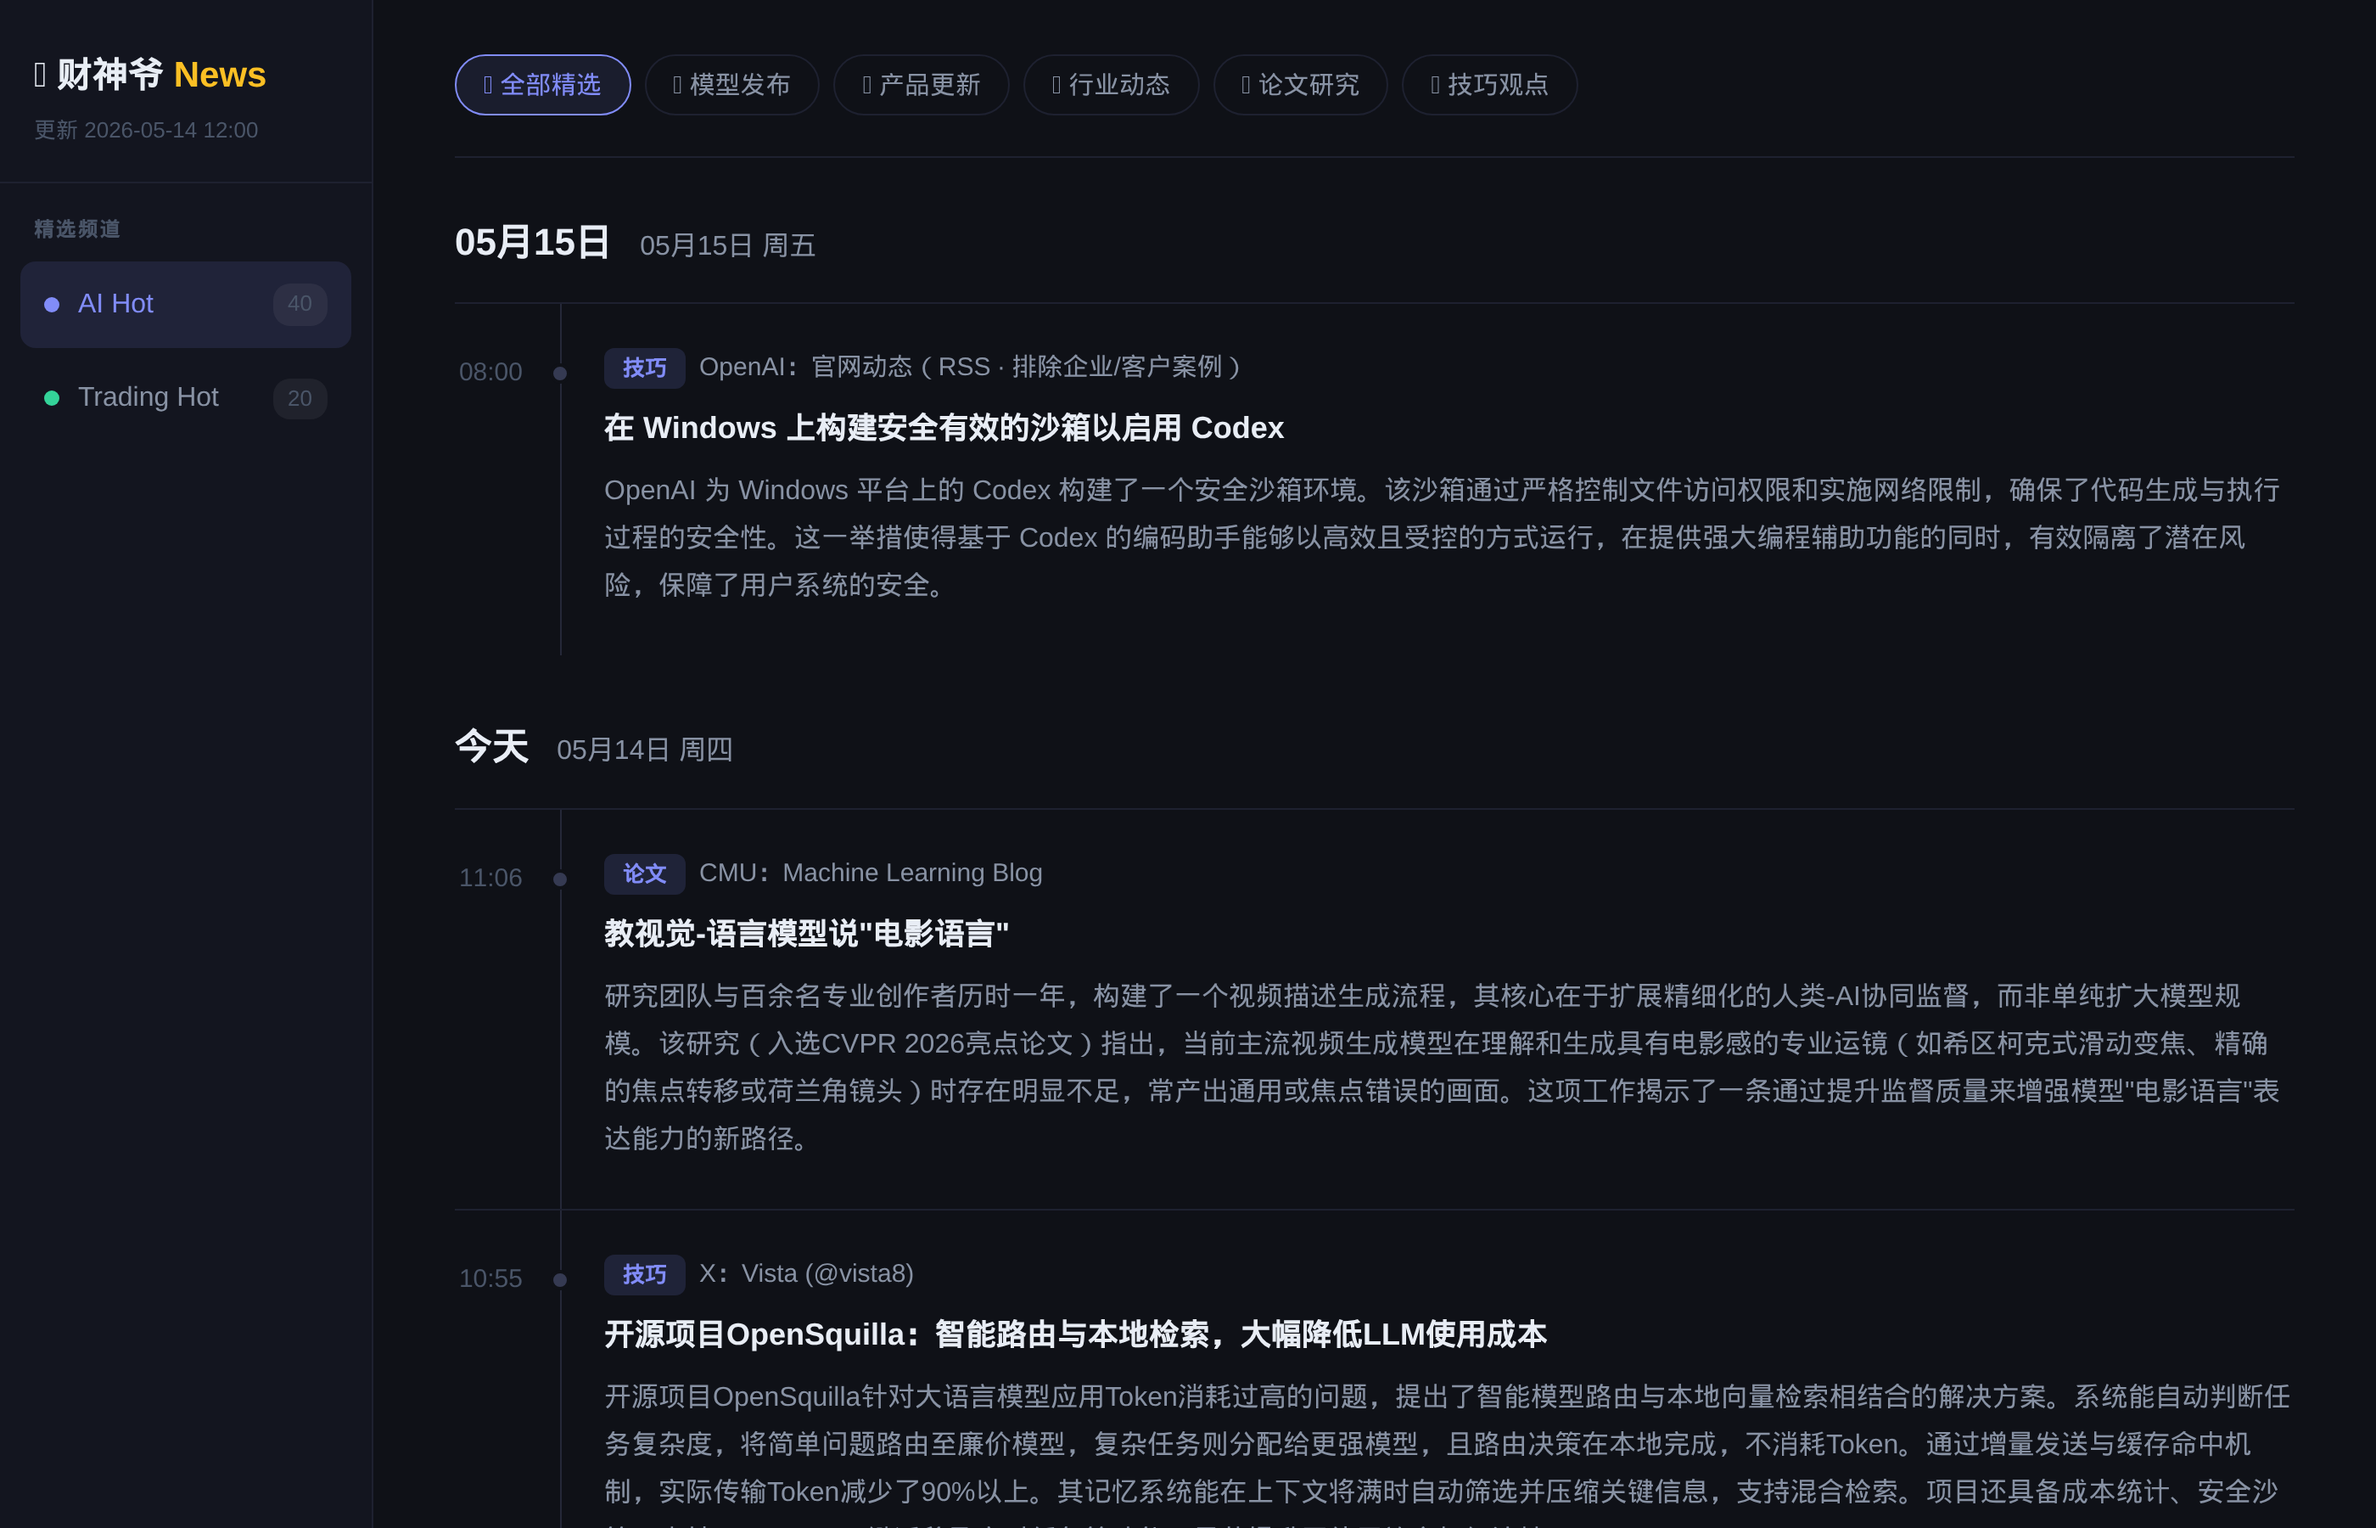
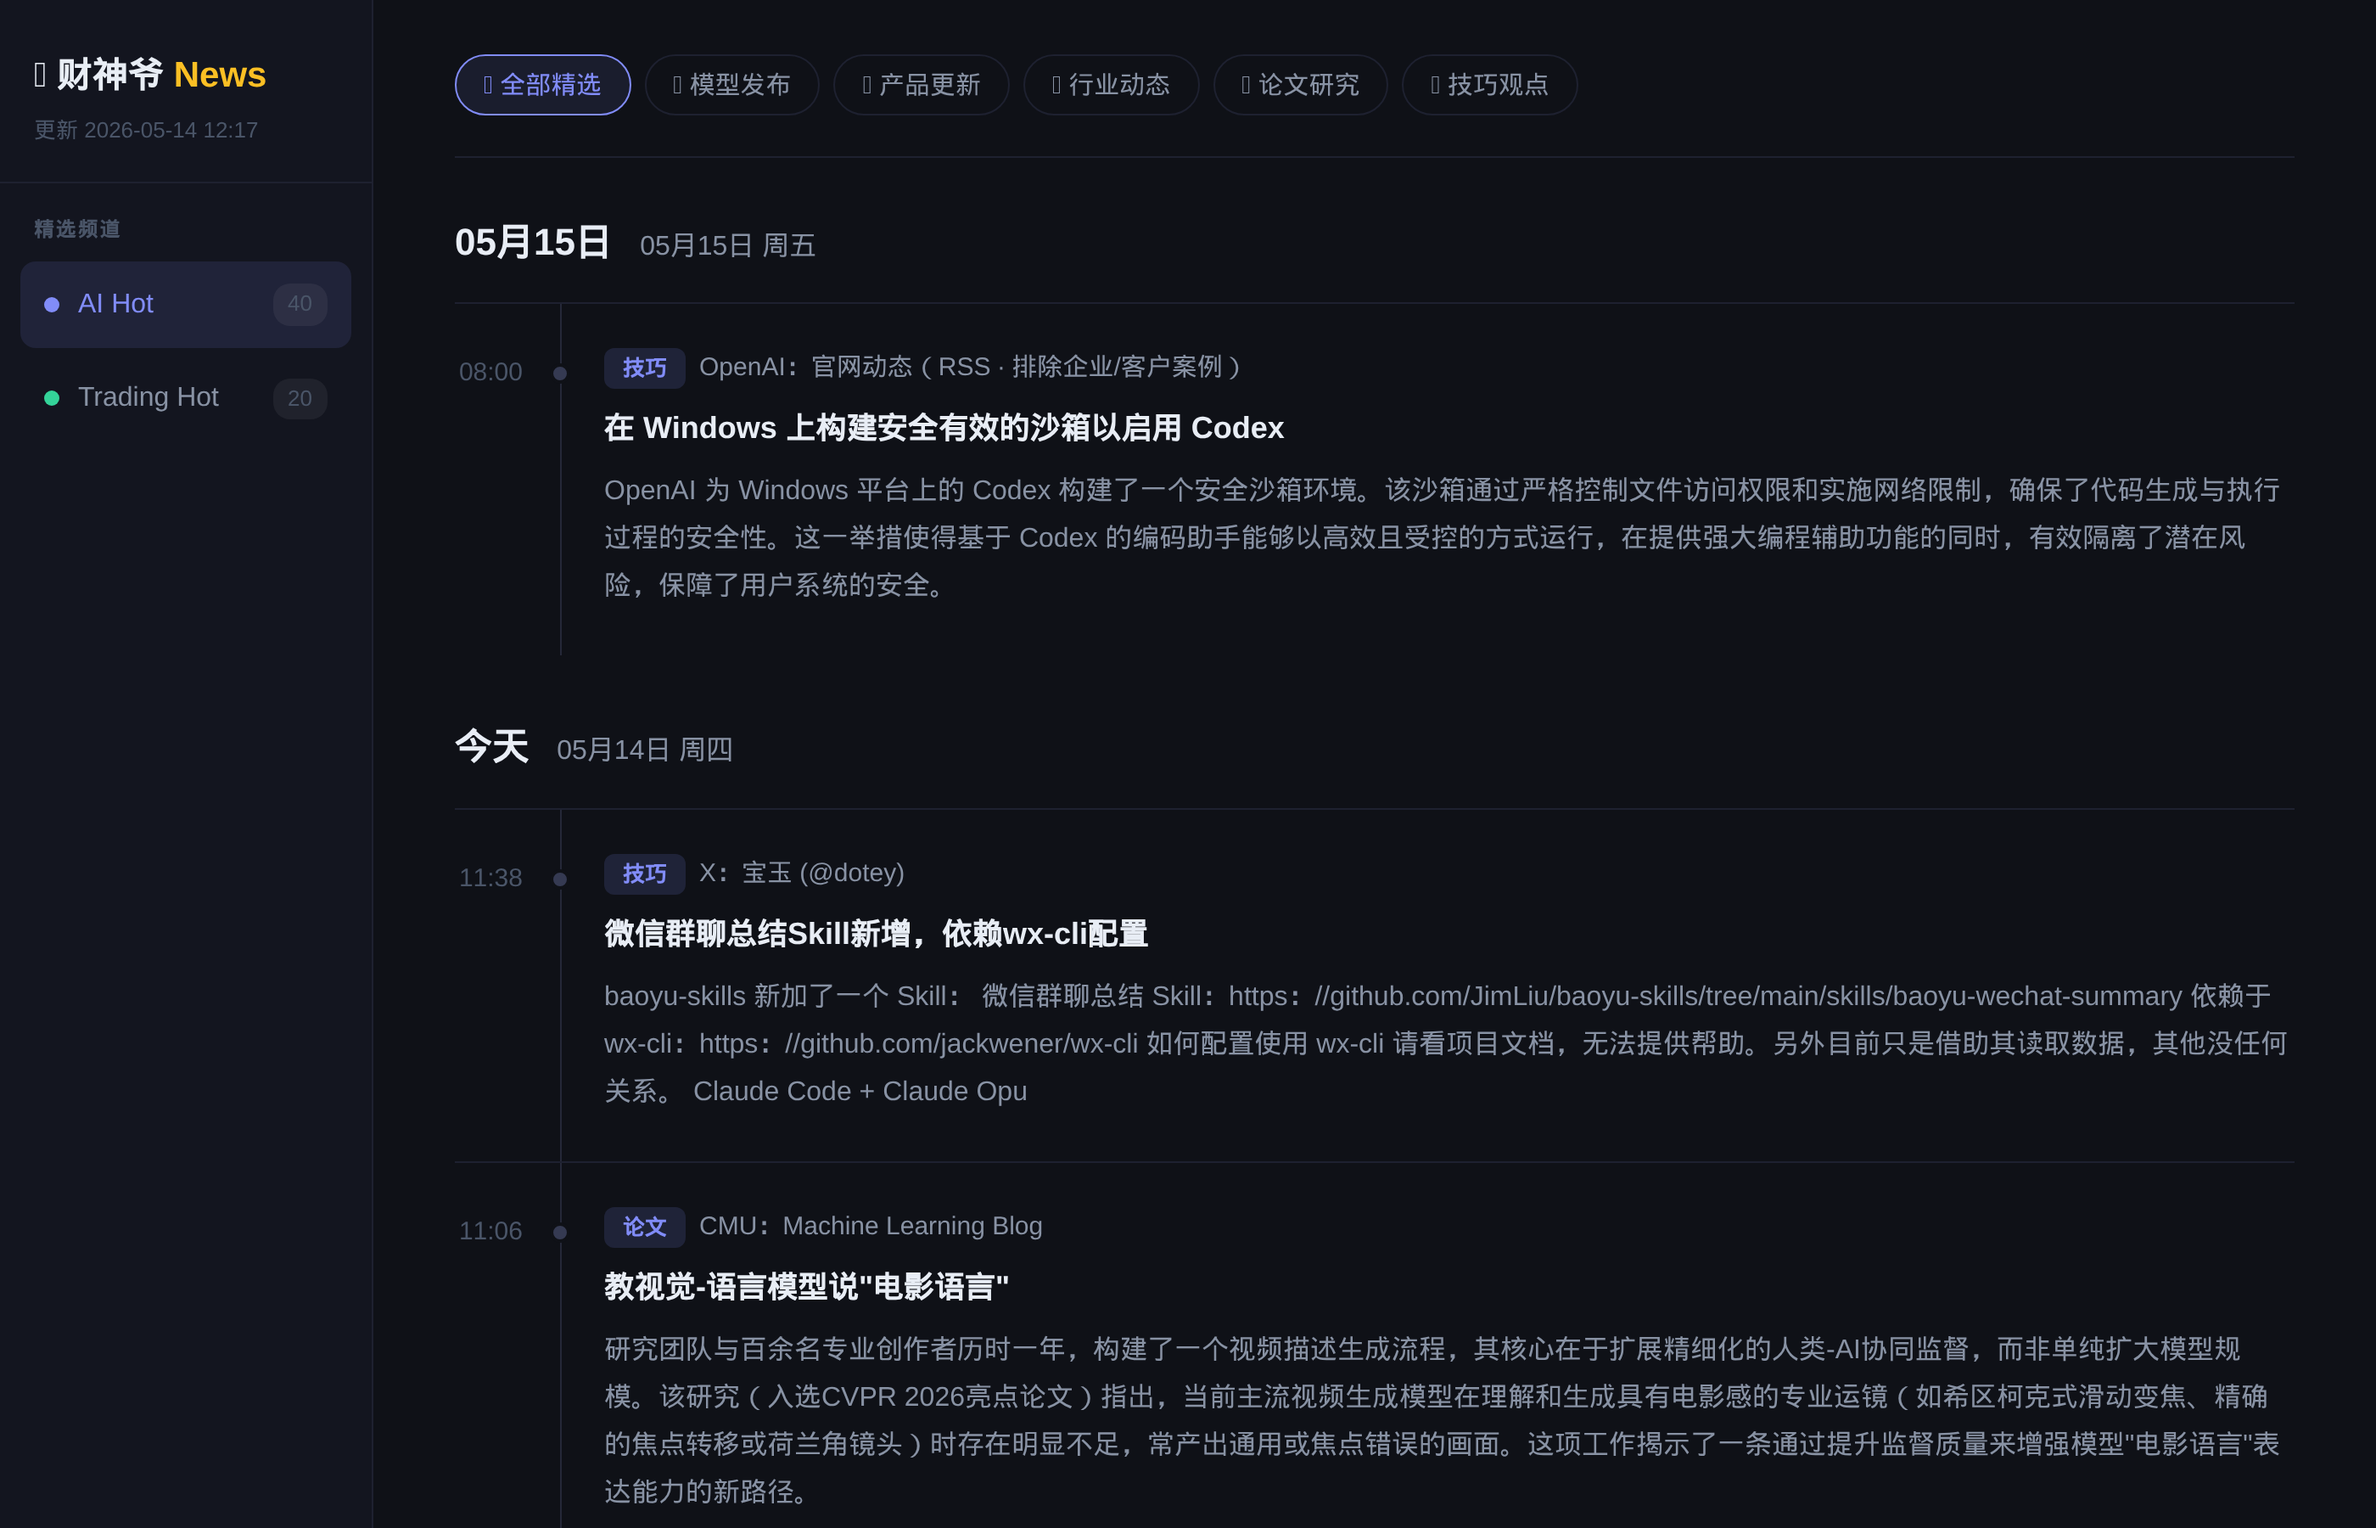
auto update 2026-05-14 12:17

Changed region(s): [[0.2486, 0.56, 0.9632, 0.9956]]

diff --git a/index.html b/index.html
@@ -106,7 +106,7 @@ body{font-family:-apple-system,BlinkMacSystemFont,"Segoe UI","PingFang SC","Micr
 <body>
 <aside class="sb">
   <div class="sb-logo">💰 财神爷 <span>News</span>
-    <div class="sb-up">更新 2026-05-14 12:00</div>
+    <div class="sb-up">更新 2026-05-14 12:17</div>
   </div>
   <nav class="sb-nav">
     <div class="nav-lbl">精选频道</div>
@@ -137,6 +137,21 @@ body{font-family:-apple-system,BlinkMacSystemFont,"Segoe UI","PingFang SC","Micr
     <div class="dgroup">
       <div class="dheader">今天 <span class='dsub'>05月14日 周四</span></div>
       <div class="ilist">
+      <div class="item" data-cats="tip">
+        <div class="item-time">11:38</div>
+        <div class="item-body">
+          <div class="item-meta"><span class="badge badge-ai">技巧</span><span class="isrc">X：宝玉 (@dotey)</span></div>
+          <a class="item-title" href="https://x.com/dotey/status/2054768295534846239" target="_blank" rel="noopener">微信群聊总结Skill新增，依赖wx-cli配置</a>
+          <div class="item-summary">baoyu-skills 新加了一个 Skill：
+微信群聊总结 Skill：https：//github.com/JimLiu/baoyu-skills/tree/main/skills/baoyu-wechat-summary
+
+依赖于 wx-cli：https：//github.com/jackwener/wx-cli
+如何配置使用 wx-cli 请看项目文档，无法提供帮助。另外目前只是借助其读取数据，其他没任何关系。
+
+Claude Code + Claude Opu</div>
+        </div>
+      </div>
+
       <div class="item" data-cats="paper">
         <div class="item-time">11:06</div>
         <div class="item-body">
@@ -537,15 +552,6 @@ https：//suno.com/playlist/a255cf6d-bb99-4c1f-aedd-8d584579bddb</div>
           <div class="item-summary">Codex应用内浏览器功能迎来多项改进，支持在不同视口尺寸下测试应用，并能控制设备工具栏、在不同断点进行点击验证。长时测试中，Codex会在关键节点截图供用户核查。为加速测试，可隐藏应用内浏览器以禁用动画，使测试速度提升1-2倍。此外，标注功能现在发送更快且消耗更少tokens。</div>
         </div>
       </div>
-
-      <div class="item" data-cats="tip">
-        <div class="item-time">10:38</div>
-        <div class="item-body">
-          <div class="item-meta"><span class="badge badge-ai">技巧</span><span class="isrc">X：Berry Xia (@berryxia)</span></div>
-          <a class="item-title" href="https://x.com/berryxia/status/2054390836721553487" target="_blank" rel="noopener">BenchLoop：本地大模型一键基准测试与排行榜发布</a>
-          <div class="item-summary">BenchLoop 提供了一套对本地大模型进行基准测试的标准化流程。用户只需拉取模型并运行该工具，即可实时获取模型在质量、速度和可靠性方面的综合评分。平台支持对比不同提示框架（如原生模式与 Hermes 模式）下的性能表现。测试完成后，结果可自动发布至公开排行榜，便于横向比较不同模型的优劣。</div>
-        </div>
-      </div>
       </div>
     </div>
   </div>
@@ -554,7 +560,7 @@ https：//suno.com/playlist/a255cf6d-bb99-4c1f-aedd-8d584579bddb</div>
         <div class="dgroup">
       <div class="dheader">昨天 <span class='dsub'>05月13日 周三</span></div>
       <div class="ilist">
-      <div class="item" data-cats="top crypto">
+      <div class="item" data-cats="crypto top">
         <div class="item-time">04:56</div>
         <div class="item-body">
           <div class="item-meta"><span class="badge badge-trading">加密</span><span class="score-badge">72分</span><span class="isrc">The Block</span><span class="ticker">$C</span><span class="ticker">$COIN</span></div>
@@ -574,7 +580,7 @@ https：//suno.com/playlist/a255cf6d-bb99-4c1f-aedd-8d584579bddb</div>
         </div>
       </div>
 
-      <div class="item" data-cats="top ai_tech crypto">
+      <div class="item" data-cats="crypto ai_tech top">
         <div class="item-time">04:46</div>
         <div class="item-body">
           <div class="item-meta"><span class="badge badge-trading">加密</span><span class="score-badge">68分</span><span class="isrc">Decrypt</span><span class="ticker">$F</span></div>
@@ -594,7 +600,7 @@ https：//suno.com/playlist/a255cf6d-bb99-4c1f-aedd-8d584579bddb</div>
         </div>
       </div>
 
-      <div class="item" data-cats="top ai_tech">
+      <div class="item" data-cats="ai_tech top">
         <div class="item-time">04:36</div>
         <div class="item-body">
           <div class="item-meta"><span class="badge badge-trading">市场异动</span><span class="score-badge">67分</span><span class="isrc">MarketWatch Top Stories</span><span class="ticker">$V</span></div>
@@ -614,7 +620,7 @@ https：//suno.com/playlist/a255cf6d-bb99-4c1f-aedd-8d584579bddb</div>
         </div>
       </div>
 
-      <div class="item" data-cats="top geo">
+      <div class="item" data-cats="geo top">
         <div class="item-time">04:14</div>
         <div class="item-body">
           <div class="item-meta"><span class="badge badge-trading">市场异动</span><span class="score-badge">67分</span><span class="isrc">华尔街见闻</span></div>
@@ -624,7 +630,7 @@ https：//suno.com/playlist/a255cf6d-bb99-4c1f-aedd-8d584579bddb</div>
         </div>
       </div>
 
-      <div class="item" data-cats="top ai_tech crypto">
+      <div class="item" data-cats="crypto ai_tech top">
         <div class="item-time">03:45</div>
         <div class="item-body">
           <div class="item-meta"><span class="badge badge-trading">加密</span><span class="score-badge">69分</span><span class="isrc">Decrypt</span><span class="ticker">$BTC</span><span class="ticker">$MARA</span></div>
@@ -644,7 +650,7 @@ https：//suno.com/playlist/a255cf6d-bb99-4c1f-aedd-8d584579bddb</div>
         </div>
       </div>
 
-      <div class="item" data-cats="top geo">
+      <div class="item" data-cats="geo top">
         <div class="item-time">02:43</div>
         <div class="item-body">
           <div class="item-meta"><span class="badge badge-trading">市场异动</span><span class="score-badge">72分</span><span class="isrc">CNBC Top News</span><span class="ticker">$C</span></div>
@@ -664,7 +670,7 @@ https：//suno.com/playlist/a255cf6d-bb99-4c1f-aedd-8d584579bddb</div>
         </div>
       </div>
 
-      <div class="item" data-cats="top geo">
+      <div class="item" data-cats="geo top">
         <div class="item-time">02:11</div>
         <div class="item-body">
           <div class="item-meta"><span class="badge badge-trading">市场异动</span><span class="score-badge">72分</span><span class="isrc">CNBC Top News</span><span class="ticker">$C</span></div>
@@ -674,7 +680,7 @@ https：//suno.com/playlist/a255cf6d-bb99-4c1f-aedd-8d584579bddb</div>
         </div>
       </div>
 
-      <div class="item" data-cats="macro top geo">
+      <div class="item" data-cats="geo macro top">
         <div class="item-time">02:10</div>
         <div class="item-body">
           <div class="item-meta"><span class="badge badge-trading">市场异动</span><span class="score-badge">72分</span><span class="isrc">CNBC Top News</span><span class="ticker">$C</span></div>
@@ -738,7 +744,7 @@ https：//suno.com/playlist/a255cf6d-bb99-4c1f-aedd-8d584579bddb</div>
         </div>
       </div>
 
-      <div class="item" data-cats="top crypto">
+      <div class="item" data-cats="crypto top">
         <div class="item-time">22:37</div>
         <div class="item-body">
           <div class="item-meta"><span class="badge badge-trading">加密</span><span class="score-badge">70分</span><span class="isrc">Decrypt</span><span class="ticker">$C</span></div>
@@ -748,7 +754,7 @@ https：//suno.com/playlist/a255cf6d-bb99-4c1f-aedd-8d584579bddb</div>
         </div>
       </div>
 
-      <div class="item" data-cats="top crypto">
+      <div class="item" data-cats="crypto top">
         <div class="item-time">19:55</div>
         <div class="item-body">
           <div class="item-meta"><span class="badge badge-trading">加密</span><span class="score-badge">75分</span><span class="isrc">Decrypt</span><span class="ticker">$C</span></div>
